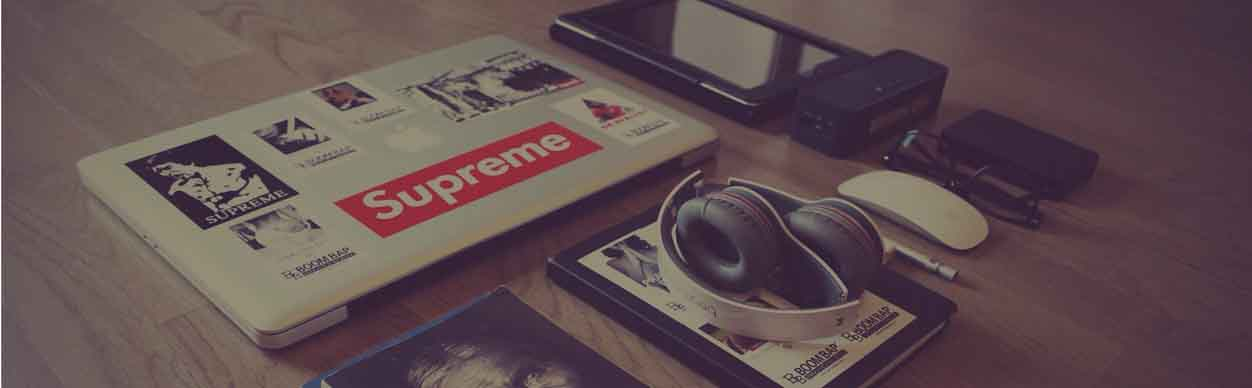
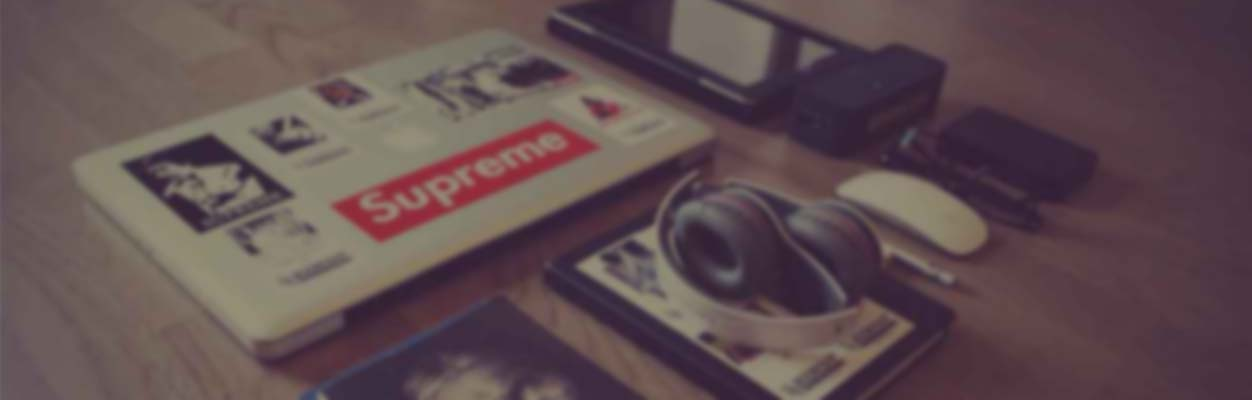
Responsiveness of website
Added the jumbotron image to be more responsive on mobile devices.
Changed the layout a bit.

diff --git a/css/custom.css b/css/custom.css
@@ -152,62 +152,6 @@ a:after {
 }
 
 
-
-/* ==========================================================================
-   Wrap Sections
-   ========================================================================== */
-
-
-
-/* ==========================================================================
-   Box Sections
-   ========================================================================== */
-
-
-/* Section Dividers */
-.section-divider {
-    z-index: 999;
-    width: 100%;
-    display: table;
-    max-height: 450px;
-    border-bottom: 2px solid #E6EAED;
-    -webkit-box-sizing: border-box;
-    -moz-box-sizing: border-box;
-    -ms-box-sizing: border-box;
-    box-sizing: border-box;
-    padding-top: 30px;
-    padding-bottom: 70px;
-    margin-top: 45px;
-
-
-    background-position: center center;
-
-    -webkit-background-size: 100%;
-    -moz-background-size: 100%;
-    -o-background-size: 100%;
-    background-size: 100%;
-
-    -webkit-background-size: cover;
-    -moz-background-size: cover;
-    -o-background-size: cover;
-    background-size: cover;
-
-    background-attachment: relative;
-    
-    text-align: center;
-}
-
-.textdivider h1 {
-	padding-top: 70px;
-	color: white;
-	font-size: 40px;
-}
-
-.textdivider p {
-	color: white;
-	font-size: 25px;
-}
-
 .navbar-collapse {
 	margin-right: 20px;
 }

diff --git a/android.html b/android.html
@@ -16,7 +16,6 @@
     <link href="css/bootstrap.min.css" rel="stylesheet">
 
     <!-- Custom styles for this template -->
-    <link href="jumbotron.css" rel="stylesheet">
     <link href="css/androcustom.css" rel="stylesheet">
 
     <!-- Just for debugging purposes. Don't actually copy these 2 lines! -->
@@ -33,7 +32,7 @@
   <body>
 
     <div class="container">
-      <div class="navbar navbar-inverse blue " role="navigation">
+      <div class="navbar navbar-inverse blue navbar-fixed-top " role="navigation">
       <div class="container">
         <div class="navbar-header">
           <button type="button" class="navbar-toggle collapsed" data-toggle="collapse" data-target=".navbar-collapse">
@@ -57,7 +56,7 @@
     <!-- Main jumbotron for a primary marketing message or call to action -->
     <div class="jumbotron">
       <div class="container">
-        <a href="#"><img src="images/logo2.png"  align="center"  ></a>
+        <div align="center"><img src="images/logo3.png" title="AndroMedians" alt="AndroMedians" align="middle"  ></div>
       </div>
     </div>
 

diff --git a/css/androcustom.css b/css/androcustom.css
@@ -8,15 +8,11 @@ body {
 }
 .jumbotron {
 	text-align: center;
-	padding-top: 70px;
-  padding-bottom: 52px;
+	
+  width: 100%;
+  height: 100%;
   margin-top: 40px;
-
-    background-image:url('../images/divider3.jpg');
-    width: 100%;
-    height: 100%;
-
-    color: white;
+  background-image:url('../images/divider3.jpg'); color: white;
   }
   .jumbotron h1 {
   	font-family: 'Oswald', sans-serif;
